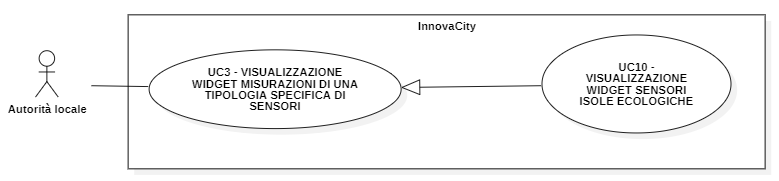
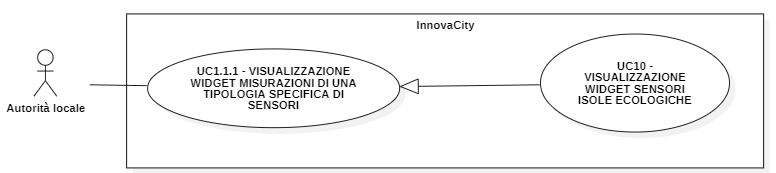
refactor lieve dopo lezione cardin

diff --git a/RTB/Sottosezioni/Analisi_dei_requisiti/Requisiti_funzionali.tex b/RTB/Sottosezioni/Analisi_dei_requisiti/Requisiti_funzionali.tex
@@ -64,7 +64,7 @@
     \stepcounter{rowcounter} RF\arabic{rowcounter} & Obbligatorio & La dashboard deve mostrare un widget distinto per ciascun tipo di sensore attivo che trasmette dati al sistema, contenente le misurazioni in formato grafico. & Decisione interna & UC1.1 \\
 
     \hline
-    \stepcounter{rowcounter} RF\arabic{rowcounter} & Obbligatorio & Ogni widget che visualizza le misurazioni deve includere, insieme ai dati stessi, informazioni sull'identificativo dei sensori che hanno contribuito a quelle misurazioni. & Decisione interna & UC3.1 \\
+    \stepcounter{rowcounter} RF\arabic{rowcounter} & Obbligatorio & Ogni widget che visualizza le misurazioni deve includere, insieme ai dati stessi, informazioni sull'identificativo dei sensori che hanno contribuito a quelle misurazioni. & Decisione interna & UC1.1.1.1 \\
 
     \hline
     \stepcounter{rowcounter} RF\arabic{rowcounter} & Obbligatorio & La dashboard deve includere un widget dedicato alle misurazioni dei sensori di temperatura. & Capitolato & UC6 \\
@@ -100,10 +100,10 @@
     \stepcounter{rowcounter} RF\arabic{rowcounter} & Obbligatorio & L'utente deve avere la possibilità di selezionare una cella, ovvero un'area specifica della città, al fine di visualizzare una dashboard dedicata contenente esclusivamente sensori, misurazioni e punteggio di salute correlati a essa. & Capitolato & UC2 \\
 
     \hline
-    \stepcounter{rowcounter} RF\arabic{rowcounter} & Obbligatorio & L'utente deve poter filtrare la visualizzazione delle misurazioni di una specifica tipologia di sensori inserendo uno specifico intervallo temporale. & Decisione interna & UC12 \\
+    \stepcounter{rowcounter} RF\arabic{rowcounter} & Obbligatorio & L'utente deve poter filtrare la visualizzazione delle misurazioni di una specifica tipologia di sensori inserendo uno specifico intervallo temporale. & Decisione interna & UC12.1 \\
 
     \hline
-    \stepcounter{rowcounter} RF\arabic{rowcounter} & Obbligatorio & Il sistema deve verificare la validità dell'intervallo temporale inserito dall'utente. & Decisione interna & UC12 \\
+    \stepcounter{rowcounter} RF\arabic{rowcounter} & Obbligatorio & Il sistema deve verificare la validità dell'intervallo temporale inserito dall'utente. & Decisione interna & UC12.1 \\
 
     \hline
     \stepcounter{rowcounter} RF\arabic{rowcounter} & Obbligatorio & In caso di intervallo temporale non valido, il sistema deve generare una notifica di errore. & Decisione interna & UC30 \\
@@ -115,16 +115,16 @@
     \stepcounter{rowcounter} RF\arabic{rowcounter} & Obbligatorio & La notifica di errore relativa all'inserimento di un intervallo temporale non valido deve essere chiara e informativa, indicando il motivo specifico dell'invalidità dell'intervallo temporale (data fine precedente a data inizio, arco temporale precedente o antecedente all'inizio della trasmissione dati). & Decisione interna & UC30 \\
 
     \hline
-    \stepcounter{rowcounter} RF\arabic{rowcounter} & Obbligatorio & L'utente ha la possibilità di selezionare l'intervallo temporale desiderato (secondo, minuto, ora, giorno, mese, anno) per aggregare le misurazioni in base al relativo periodo di registrazione corrispondente. & Decisione interna & UC14 \\
+    \stepcounter{rowcounter} RF\arabic{rowcounter} & Obbligatorio & L'utente ha la possibilità di selezionare l'intervallo temporale desiderato (secondo, minuto, ora, giorno, mese, anno) per aggregare le misurazioni in base al relativo periodo di registrazione corrispondente. & Decisione interna & UC13 \\
 
     \hline
-    \stepcounter{rowcounter} RF\arabic{rowcounter} & Obbligatorio & Il sistema deve essere in grado di adattare dinamicamente la rappresentazione delle misurazioni secondo un intervallo temporale di aggregazione selezionato dall'utente. & Decisione interna & UC14 \\
+    \stepcounter{rowcounter} RF\arabic{rowcounter} & Obbligatorio & Il sistema deve essere in grado di adattare dinamicamente la rappresentazione delle misurazioni secondo un intervallo temporale di aggregazione selezionato dall'utente. & Decisione interna & UC13 \\
 
     \hline
-    \stepcounter{rowcounter} RF\arabic{rowcounter} & Obbligatorio &  L'utente deve avere la possibilità di definire due valori (un minimo e un massimo) per filtrare le misurazioni dei sensori di una specifica tipologia, utilizzando questi limiti come criterio per visualizzare solo i dati compresi in quei range. & Decisione interna & UC14 \\
+    \stepcounter{rowcounter} RF\arabic{rowcounter} & Obbligatorio &  L'utente deve avere la possibilità di definire due valori (un minimo e un massimo) per filtrare le misurazioni dei sensori di una specifica tipologia, utilizzando questi limiti come criterio per visualizzare solo i dati compresi in quei range. & Decisione interna & UC12.2 \\
 
     \hline
-    \stepcounter{rowcounter} RF\arabic{rowcounter} & Obbligatorio & Il sistema deve verificare la validità dell'intervallo di rilevamento inserito dall'utente. & Decisione interna & UC14 \\
+    \stepcounter{rowcounter} RF\arabic{rowcounter} & Obbligatorio & Il sistema deve verificare la validità dell'intervallo di rilevamento inserito dall'utente. & Decisione interna & UC12.2 \\
 
     \hline
     \stepcounter{rowcounter} RF\arabic{rowcounter} & Obbligatorio & In caso di intervallo di rilevamento non valido, il sistema deve generare una notifica di errore. & Decisione interna & UC32 \\
@@ -136,10 +136,10 @@
     \stepcounter{rowcounter} RF\arabic{rowcounter} & Obbligatorio & La notifica di errore relativa all'inserimento di un intervallo di rilevamento non valido deve essere chiara e informativa, indicando il motivo specifico dell'invalidità dell'intervallo di rilevamento (data fine precedente a data inizio, arco temporale precedente o antecedente all'inizio della trasmissione dati). & Decisione interna & UC32 \\
     
     \hline
-    \stepcounter{rowcounter} RF\arabic{rowcounter} & Obbligatorio & L'utente deve avere la possibilità di filtrare le misurazioni selezionando uno o più sensori di una specifica categoria in modo tale da visualizzare esclusivamente le misurazioni corrispondenti ai sensori selezionati. & Decisione interna & UC16 \\
+    \stepcounter{rowcounter} RF\arabic{rowcounter} & Obbligatorio & L'utente deve avere la possibilità di filtrare le misurazioni selezionando uno o più sensori di una specifica categoria in modo tale da visualizzare esclusivamente le misurazioni corrispondenti ai sensori selezionati. & Decisione interna & UC12.4 \\
 
     \hline
-    \stepcounter{rowcounter} RF\arabic{rowcounter} & Obbligatorio & L'utente deve poter filtrare la visualizzazione delle misurazioni di una specifica tipologia di sensori selezionando una o più specifiche celle come criterio di filtro. & Decisione interna & UC15 \\
+    \stepcounter{rowcounter} RF\arabic{rowcounter} & Obbligatorio & L'utente deve poter filtrare la visualizzazione delle misurazioni di una specifica tipologia di sensori selezionando una o più specifiche celle come criterio di filtro. & Decisione interna & UC12.3 \\
     
     \hline
     \stepcounter{rowcounter} RF\arabic{rowcounter} & Obbligatorio & L'utente deve poter applicare più filtri simultaneamente per la visualizzazione delle misurazioni di una specifica tipologia di sensori. & Decisione interna & UC17 \\

diff --git a/RTB/Sottosezioni/Analisi_dei_requisiti/Elenco_dei_casi_duso.tex b/RTB/Sottosezioni/Analisi_dei_requisiti/Elenco_dei_casi_duso.tex
@@ -38,30 +38,30 @@
 %---------------------------- UC3 ---------------------------------
 \begin{figure}[H]
     \centering
-    \includegraphics[width=0.9\textwidth]{../Images/uc3.png}
-    \caption{UC3 - VISUALIZZAZIONE WIDGET MISURAZIONI DI UNA TIPOLOGIA SPECIFICA DI SENSORI}
+    \includegraphics[width=0.9\textwidth]{../Images/uc1.1.1.png}
+    \caption{UC1.1.1 - VISUALIZZAZIONE WIDGET MISURAZIONI DI UNA TIPOLOGIA SPECIFICA DI SENSORI}
     \label{fig:UC3}
 \end{figure}
-\input{Sottosezioni/Analisi_dei_requisiti/Casi_uso/UC3.tex}
+\input{Sottosezioni/Analisi_dei_requisiti/Casi_uso/UC1.1.1.tex}
 
 %---------------------------- SUB_UC3 ---------------------------------
 \begin{figure}[H]
     \centering
-    \includegraphics[width=0.9\textwidth]{../Images/uc3_Subcase.png}
-    \caption{Sottocasi UC3 - VISUALIZZAZIONE WIDGET MISURAZIONI DI UNA TIPOLOGIA SPECIFICA DI SENSORI}
+    \includegraphics[width=0.9\textwidth]{../Images/subUC1.1.1.jpg}
+    \caption{Sottocasi UC1.1.1 - VISUALIZZAZIONE WIDGET MISURAZIONI DI UNA TIPOLOGIA SPECIFICA DI SENSORI}
     \label{fig:UC3_sub}
 \end{figure}
 
 %---------------------------- UC3.1 ---------------------------------
-\input{Sottosezioni/Analisi_dei_requisiti/Casi_uso/UC3.1.tex}
+\input{Sottosezioni/Analisi_dei_requisiti/Casi_uso/UC1.1.1.1.tex}
 
 %---------------------------- UC3.2 ---------------------------------
-\input{Sottosezioni/Analisi_dei_requisiti/Casi_uso/UC3.2.tex}
+\input{Sottosezioni/Analisi_dei_requisiti/Casi_uso/UC1.1.1.2.tex}
 
 \begin{figure}[H]
     \centering
-    \includegraphics[width=0.9\textwidth]{../Images/uc3_1Gen.PNG}
-    \caption{Generalizzazione UC3.2 - VISUALIZZAZIONE MISURAZIONI SENSORI NEL TEMPO}
+    \includegraphics[width=0.9\textwidth]{../Images/uc1.1.1.2Gen.PNG}
+    \caption{Generalizzazione UC1.1.1.2 - VISUALIZZAZIONE MISURAZIONI SENSORI NEL TEMPO}
     \label{fig:UC3_gen}
 \end{figure}
 
@@ -134,11 +134,42 @@
 \begin{figure}[H]
     \centering
     \includegraphics[width=0.9\textwidth]{../Images/uc12.PNG}
-    \caption{UC12 - FILTRO VISUALIZZAZIONE MISURAZIONI IN UN INTERVALLO TEMPORALE}
+    \caption{UC 12 - FILTRO WIDGET MISURAZIONI}
 \end{figure}
 \input{Sottosezioni/Analisi_dei_requisiti/Casi_uso/UC12.tex}
+
+\begin{figure}[H]
+    \centering
+    \includegraphics[width=0.9\textwidth]{../Images/uc12.1.PNG}
+    \caption{UC12.1 - FILTRO VISUALIZZAZIONE MISURAZIONI IN UN INTERVALLO TEMPORALE}
+\end{figure}
+\input{Sottosezioni/Analisi_dei_requisiti/Casi_uso/UC12.1.tex}
 \input{Sottosezioni/Analisi_dei_requisiti/Casi_uso/UC30.tex}
 
+
+\begin{figure}[H]
+    \centering
+    \includegraphics[width=0.9\textwidth]{../Images/uc12.2.PNG}
+    \caption{UC12.2 -FILTRO VISUALIZZAZIONE PER MISURAZIONI}
+\end{figure}
+\input{Sottosezioni/Analisi_dei_requisiti/Casi_uso/UC12.2.tex}
+\input{Sottosezioni/Analisi_dei_requisiti/Casi_uso/UC32.tex}
+
+%---------------------------- UC12 ---------------------------------
+\begin{figure}[H]
+    \centering
+    \includegraphics[width=0.9\textwidth]{../Images/uc12.3.PNG}
+    \caption{UC12.3 - FILTRO VISUALIZZAZIONE MISURAZIONI PER CELLA}
+\end{figure}
+\input{Sottosezioni/Analisi_dei_requisiti/Casi_uso/UC12.3.tex}
+%---------------------------- UC12 ---------------------------------
+\begin{figure}[H]
+    \centering
+    \includegraphics[width=0.9\textwidth]{../Images/uc12.4.PNG}
+    \caption{UC12.4 - FILTRO VISUALIZZAZIONE MISURAZIONI PER SENSORE}
+\end{figure}
+\input{Sottosezioni/Analisi_dei_requisiti/Casi_uso/UC12.4.tex}
+%---------------------------- UC12 ---------------------------------
 %---------------------------- UC12 ---------------------------------
 \begin{figure}[H]
     \centering
@@ -147,35 +178,7 @@
 \end{figure}
 \input{Sottosezioni/Analisi_dei_requisiti/Casi_uso/UC13.tex}
 %---------------------------- UC12 ---------------------------------
-\begin{figure}[H]
-    \centering
-    \includegraphics[width=0.9\textwidth]{../Images/uc14.PNG}
-    \caption{UC14 - VISUALIZZAZIONE FILTRATA SULLE MISURAZIONI}
-\end{figure}
-\input{Sottosezioni/Analisi_dei_requisiti/Casi_uso/UC14.tex}
-\input{Sottosezioni/Analisi_dei_requisiti/Casi_uso/UC32.tex}
 
-%---------------------------- UC12 ---------------------------------
-\begin{figure}[H]
-    \centering
-    \includegraphics[width=0.9\textwidth]{../Images/uc15.PNG}
-    \caption{UC15 - FILTRO VISUALIZZAZIONE MISURAZIONI PER CELLA}
-\end{figure}
-\input{Sottosezioni/Analisi_dei_requisiti/Casi_uso/UC15.tex}
-%---------------------------- UC12 ---------------------------------
-\begin{figure}[H]
-    \centering
-    \includegraphics[width=0.9\textwidth]{../Images/uc16.PNG}
-    \caption{UC16 - FILTRO VISUALIZZAZIONE MISURAZIONI PER SENSORE}
-\end{figure}
-\input{Sottosezioni/Analisi_dei_requisiti/Casi_uso/UC16.tex}
-%---------------------------- UC12 ---------------------------------
-\begin{figure}[H]
-    \centering
-    \includegraphics[width=0.9\textwidth]{../Images/uc17.PNG}
-    \caption{UC17 - APPLICAZIONE FILTRI MULTIPLI AI WIDGET}
-\end{figure}
-\input{Sottosezioni/Analisi_dei_requisiti/Casi_uso/UC17.tex}
 
 \begin{figure}[H]
     \centering

diff --git a/RTB/Sottosezioni/Analisi_dei_requisiti/Casi_uso/UC12.tex b/RTB/Sottosezioni/Analisi_dei_requisiti/Casi_uso/UC12.tex
@@ -1,25 +1,19 @@
-\subsubsection{UC12 - FILTRO VISUALIZZAZIONE MISURAZIONI IN UN INTERVALLO TEMPORALE}
+\subsubsection{UC12 - FILTRO WIDGET MISURAZIONI}
 \begin{itemize}
     \item \textbf{Attore principale:} Autorità locale;
     \item \textbf{Precondizioni:}
         \begin{itemize}
-            \item L'autorità locale si trova nell'interfaccia di visualizzazione di un widget associato ad una specifica tipologia di sensori (UC3); 
+            \item L'autorità locale si trova nell'interfaccia di visualizzazione di un widget associato ad una specifica tipologia di sensori (UC1.1.1);
         \end{itemize}
     \item \textbf{Postcondizioni:}
-        \begin{itemize}
-            \item L'autorità locale visualizza le sole misurazioni trasmesse da una specifica tipolgia di sensori nell'intervallo temporale selezionato.
-        \end{itemize}
+          \begin{itemize}
+              \item L'autorità locale visualizza esclusivamente le misurazioni che soddisfano il filtraggio.
+          \end{itemize}
     \item \textbf{Scenario principale:}
-        \begin{enumerate}
-            \item L'autorità locale seleziona la funzionalità relativa al filtro dei dati per intervallo temporale;
-            \item L'autorità locale imposta un intervallo temporale;
-            \item Il sistema verifica la validità dell'intervallo temporale inserito;
-            \item Il sistema aggiorna la visualizzazione mostrando solo le misurazioni effettuate durante l'intervallo temporale. selezionato.
-        \end{enumerate}
-    \item \textbf{Estensioni:}
-    \begin{enumerate}
-        \item VISUALIZZAZIONE ERRORE INTERVALLO TEMPORALE NON VALIDO (UC30)
-    \end{enumerate}
+          \begin{enumerate}
+              \item L'utente seleziona i filtri da applicare;
+              \item Il sistema aggiorna la visualizzazione mostrando esclusivamente le misurazioni che rispettano i vincoli specificati filtri.
+          \end{enumerate}
     \item \textbf{User story associata:} \\
-        Come autorità locale, voglio avere la capacità di definire un intervallo temporale personalizzato per poter filtrare le misurazioni trasmesse da una specifica tipologia di sensori. Ciò mi permetterà di analizzare dettagliatamente le misurazioni raccolte in un periodo di interesse specifico.
+            \item Come autorità locale, desidero disporre della capacità di applicare filtri per la visualizzazione delle misurazioni, consentendo un'analisi dettagliata e focalizzata attraverso una combinazione di criteri selettivi.
 \end{itemize}

diff --git a/RTB/Sottosezioni/Analisi_dei_requisiti/Tracciamento.tex b/RTB/Sottosezioni/Analisi_dei_requisiti/Tracciamento.tex
@@ -49,7 +49,7 @@
         \hline
         RF19 & Decisione interna, UC1.1 \\
         \hline
-        RF20 & Decisione interna, UC3.1 \\
+        RF20 & Decisione interna, UC1.1.1.1 \\
         \hline
         RF21 & Capitolato, UC6 \\
         \hline
@@ -73,9 +73,9 @@
         \hline
         RF30 & Capitolato, UC2 \\
         \hline
-        RF31 & Decisione interna, UC12 \\
+        RF31 & Decisione interna, UC12.1 \\
         \hline
-        RF32 & Decisione interna, UC12 \\
+        RF32 & Decisione interna, UC12.1 \\
         \hline
         RF33 & Decisione interna, UC30 \\
         \hline
@@ -83,13 +83,13 @@
         \hline
         RF35 & Decisione interna, UC30 \\
         \hline
-        RF36 & Decisione interna, UC14 \\
+        RF36 & Decisione interna, UC13 \\
         \hline
-        RF37 & Decisione interna, UC14 \\
+        RF37 & Decisione interna, UC13 \\
         \hline
-        RF38 & Decisione interna, UC14 \\
+        RF38 & Decisione interna, UC12.2 \\
         \hline
-        RF39 & Decisione interna, UC14 \\
+        RF39 & Decisione interna, UC12.2 \\
         \hline
         RF40 & Decisione interna, UC32 \\
         \hline
@@ -97,11 +97,11 @@
         \hline
         RF42 & Decisione interna, UC32 \\
         \hline
-        RF43 & Decisione interna, UC16 \\
+        RF43 & Decisione interna, UC12.4 \\
         \hline
-        RF44 & Decisione interna, UC15 \\
+        RF44 & Decisione interna, UC12.3 \\
         \hline
-        RF45 & Decisione interna, UC17 \\
+        RF45 & Decisione interna, UC12 \\
         \hline
         RF46 & Decisione interna, UC31 \\
         \hline
@@ -204,15 +204,17 @@
     \hline
     UC11 & RF26 \\
     \hline
-    UC12 & RF31, RF32 \\
+    UC12.1 & RF31, RF32 \\
     \hline
-    UC14 & RF36, RF37, RF38, RF39 \\
+    UC13 & RF36, RF37 \\
     \hline
-    UC15 & RF44 \\
+    UC12.2 &  RF38, RF39 \\
     \hline
-    UC16 & RF43 \\
+    UC12.3 & RF44 \\
     \hline
-    UC17 & RF45 \\
+    UC12.4 & RF43 \\
+    \hline
+    UC12 & RF45 \\
     \hline
     UC18 & RF52 \\
     \hline

diff --git a/RTB/Sottosezioni/Analisi_dei_requisiti/Casi_uso/UC12.1.tex b/RTB/Sottosezioni/Analisi_dei_requisiti/Casi_uso/UC12.1.tex
@@ -1,0 +1,25 @@
+\subsubsection{UC12.1 - FILTRO VISUALIZZAZIONE MISURAZIONI IN UN INTERVALLO TEMPORALE}
+\begin{itemize}
+    \item \textbf{Attore principale:} Autorità locale;
+    \item \textbf{Precondizioni:}
+        \begin{itemize}
+            \item L'autorità locale si trova nell'interfaccia di visualizzazione di un widget associato ad una specifica tipologia di sensori (UC1.1.1); 
+        \end{itemize}
+    \item \textbf{Postcondizioni:}
+        \begin{itemize}
+            \item L'autorità locale visualizza le sole misurazioni trasmesse da una specifica tipolgia di sensori nell'intervallo temporale selezionato.
+        \end{itemize}
+    \item \textbf{Scenario principale:}
+        \begin{enumerate}
+            \item L'autorità locale seleziona la funzionalità relativa al filtro dei dati per intervallo temporale;
+            \item L'autorità locale imposta un intervallo temporale;
+            \item Il sistema verifica la validità dell'intervallo temporale inserito;
+            \item Il sistema aggiorna la visualizzazione mostrando solo le misurazioni effettuate durante l'intervallo temporale. selezionato.
+        \end{enumerate}
+    \item \textbf{Estensioni:}
+    \begin{enumerate}
+        \item VISUALIZZAZIONE ERRORE INTERVALLO TEMPORALE NON VALIDO (UC30)
+    \end{enumerate}
+    \item \textbf{User story associata:} \\
+        Come autorità locale, voglio avere la capacità di definire un intervallo temporale personalizzato per poter filtrare le misurazioni trasmesse da una specifica tipologia di sensori. Ciò mi permetterà di analizzare dettagliatamente le misurazioni raccolte in un periodo di interesse specifico.
+\end{itemize}

diff --git a/RTB/Sottosezioni/Analisi_dei_requisiti/Casi_uso/UC1.1.1.2.tex b/RTB/Sottosezioni/Analisi_dei_requisiti/Casi_uso/UC1.1.1.2.tex
@@ -1,4 +1,4 @@
-\subsubsection{UC3.2 - VISUALIZZAZIONE MISURAZIONI SENSORI NEL TEMPO}
+\subsubsection{UC1.1.1.2 - VISUALIZZAZIONE MISURAZIONI SENSORI NEL TEMPO}
 \begin{itemize}
     \item \textbf{Attore principale:} Autorità locale;
     \item \textbf{Precondizioni:}
@@ -12,7 +12,7 @@
         \end{itemize}
     \item \textbf{Scenario principale:}
         \begin{enumerate}
-            \item Il sistema carica e configura la visualizzazione di un widget di una specifica tipologia di sensori (UC3);
+            \item Il sistema carica e configura la visualizzazione di un widget di una specifica tipologia di sensori (UC1.1.1);
             \item Il sistema carica e configura la visualizzazione all'interno del widget delle misurazioni dei sensori coinvolti.
         \end{enumerate}
     \item \textbf{User story associata:} \\

diff --git a/RTB/Sottosezioni/Analisi_dei_requisiti/Casi_uso/UC1.1.1.1.tex b/RTB/Sottosezioni/Analisi_dei_requisiti/Casi_uso/UC1.1.1.1.tex
@@ -1,4 +1,4 @@
-\subsubsection{UC3.1 - VISUALIZZAZIONE INFORMAZIONI SENSORI}
+\subsubsection{UC1.1.1.1 - VISUALIZZAZIONE INFORMAZIONI SENSORI}
 \begin{itemize}
     \item \textbf{Attore principale:} Autorità locale;
     \item \textbf{Precondizioni:}
@@ -12,7 +12,7 @@
         \end{itemize}
     \item \textbf{Scenario principale:}
         \begin{enumerate}
-            \item Il sistema carica e configura la visualizzazione di un widget di una specifica tipologia di sensori (UC3);
+            \item Il sistema carica e configura la visualizzazione di un widget di una specifica tipologia di sensori (UC1.1.1);
             \item Il sistema carica e configura la visualizzazione all'interno del widget delle informazioni dei sensori coinvolti.
         \end{enumerate}
     \item \textbf{User story associata:} \\

diff --git a/RTB/Sottosezioni/Analisi_dei_requisiti/Casi_uso/UC12.3.tex b/RTB/Sottosezioni/Analisi_dei_requisiti/Casi_uso/UC12.3.tex
@@ -1,9 +1,9 @@
-\subsubsection{UC15 - FILTRO VISUALIZZAZIONE MISURAZIONI PER CELLA}
+\subsubsection{UC12.3 - FILTRO VISUALIZZAZIONE MISURAZIONI PER CELLA}
 \begin{itemize}
     \item \textbf{Attore principale:} Autorità locale;
     \item \textbf{Precondizioni:}
         \begin{itemize}
-            \item L'autorità locale si trova nell'interfaccia di visualizzazione di un widget associato ad una specifica tipologia di sensori (UC3);
+            \item L'autorità locale si trova nell'interfaccia di visualizzazione di un widget associato ad una specifica tipologia di sensori (UC1.1.1);
             \item Almeno una cella urbana è presente nella città. 
         \end{itemize}
     \item \textbf{Postcondizioni:}

diff --git a/RTB/Sottosezioni/Analisi_dei_requisiti/Casi_uso/UC4.tex b/RTB/Sottosezioni/Analisi_dei_requisiti/Casi_uso/UC4.tex
@@ -12,7 +12,7 @@
             \end{itemize}
       \item \textbf{Scenario principale:}
             \begin{enumerate}
-                  \item Il sistema carica e configura la visualizzazione di un widget di una specifica tipologia di sensori (UC3);
+                  \item Il sistema carica e configura la visualizzazione di un widget di una specifica tipologia di sensori (UC1.1.1);
                   \item Il sistema carica e configura la visualizzazione all'interno del widget delle misurazioni dei sensori coinvolti;
                   \item L'autorità locale seleziona la visualizzazione delle misurazioni associato al widget in formato testuale.
             \end{enumerate}

diff --git a/RTB/Sottosezioni/Analisi_dei_requisiti/Casi_uso/UC12.4.tex b/RTB/Sottosezioni/Analisi_dei_requisiti/Casi_uso/UC12.4.tex
@@ -1,9 +1,9 @@
-\subsubsection{UC16 - FILTRO VISUALIZZAZIONE MISURAZIONI PER SENSORE}
+\subsubsection{UC12.4 - FILTRO VISUALIZZAZIONE MISURAZIONI PER SENSORE}
 \begin{itemize}
     \item \textbf{Attore principale:} Autorità locale;
     \item \textbf{Precondizioni:}
         \begin{itemize}
-            \item L'autorità locale si trova nell'interfaccia di visualizzazione di un widget associato ad una specifica tipologia di sensori (UC3);
+            \item L'autorità locale si trova nell'interfaccia di visualizzazione di un widget associato ad una specifica tipologia di sensori (UC1.1.1);
         \end{itemize}
     \item \textbf{Postcondizioni:}
         \begin{itemize}

diff --git a/RTB/Sottosezioni/Analisi_dei_requisiti/Casi_uso/UC12.2.tex b/RTB/Sottosezioni/Analisi_dei_requisiti/Casi_uso/UC12.2.tex
@@ -1,9 +1,9 @@
-\subsubsection{UC14 - VISUALIZZAZIONE FILTRATA SULLE MISURAZIONI}
+\subsubsection{UC12.2 - FILTRO VISUALIZZAZIONE PER MISURAZIONI}
 \begin{itemize}
     \item \textbf{Attore principale:} Autorità locale;
     \item \textbf{Precondizioni:}
         \begin{itemize}
-            \item L'autorità locale si trova nell'interfaccia di visualizzazione di un widget associato ad una specifica tipologia di sensori (UC3);
+            \item L'autorità locale si trova nell'interfaccia di visualizzazione di un widget associato ad una specifica tipologia di sensori (UC1.1.1);
         \end{itemize}
     \item \textbf{Postcondizioni:}
         \begin{itemize}

diff --git a/RTB/Sottosezioni/Analisi_dei_requisiti/Casi_uso/UC5.tex b/RTB/Sottosezioni/Analisi_dei_requisiti/Casi_uso/UC5.tex
@@ -12,7 +12,7 @@
         \end{itemize}
     \item \textbf{Scenario principale:}
         \begin{enumerate}
-            \item Il sistema carica e configura la visualizzazione di un widget di una specifica tipologia di sensori (UC3);
+            \item Il sistema carica e configura la visualizzazione di un widget di una specifica tipologia di sensori (UC1.1.1);
                 \item Il sistema carica e configura la visualizzazione all'interno del widget delle misurazioni dei sensori coinvolti;
                 \item L'autorità locale seleziona la visualizzazione delle misurazioni associato al widget in formato grafico.
         \end{enumerate}
